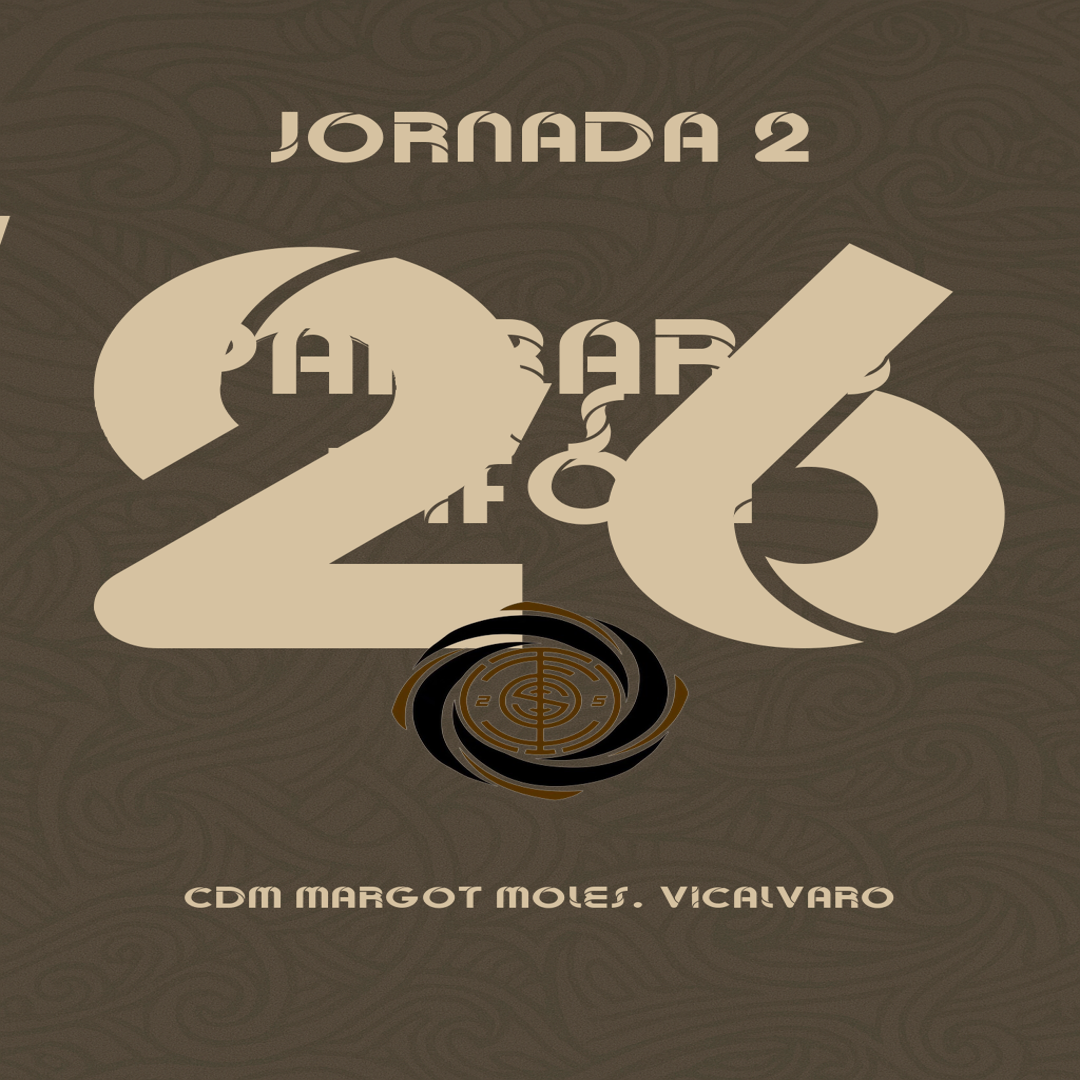
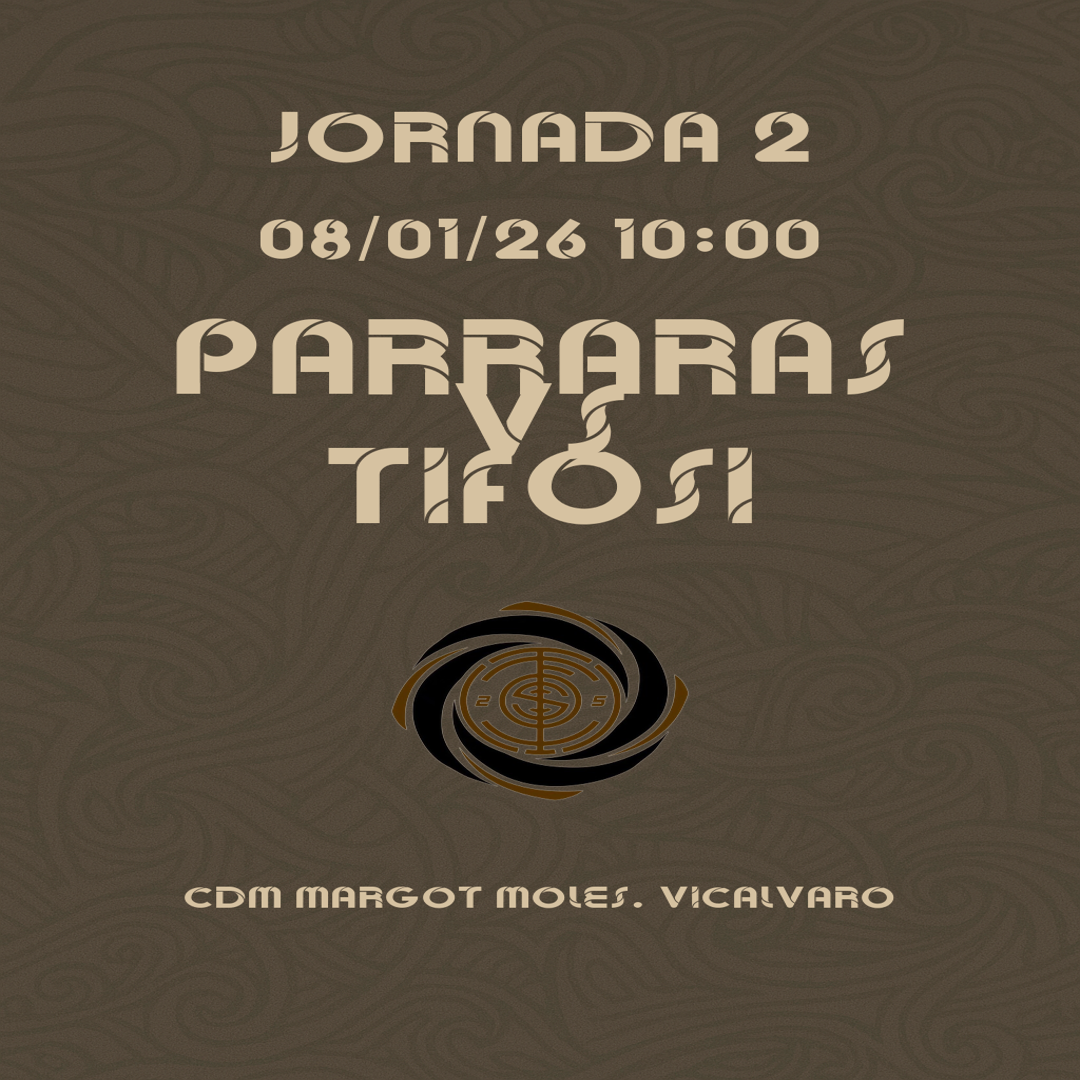
update web

Changed region(s): [[0.0611, 0.1833, 0.9472, 0.6111], [0.0, 0.1833, 0.0306, 0.2139]]

diff --git a/image_generator.py b/image_generator.py
@@ -328,7 +328,7 @@ def generar_proximo(data):
     # FUENTES
     # =========================
     font_jornada = ImageFont.truetype("fonts/Bauman-Regular.ttf", int(ancho * 0.1))
-    font_fecha = ImageFont.truetype("fonts/Bauman-Regular.ttf", int(ancho * 0.8))
+    font_fecha = ImageFont.truetype("fonts/Bauman-Regular.ttf", int(ancho * 0.08))
     font_equipo = ImageFont.truetype("fonts/Bauman-Regular.ttf", int(ancho * 0.15))
     font_ubicacion = ImageFont.truetype("fonts/Bauman-Regular.ttf", int(ancho * 0.042))
 
